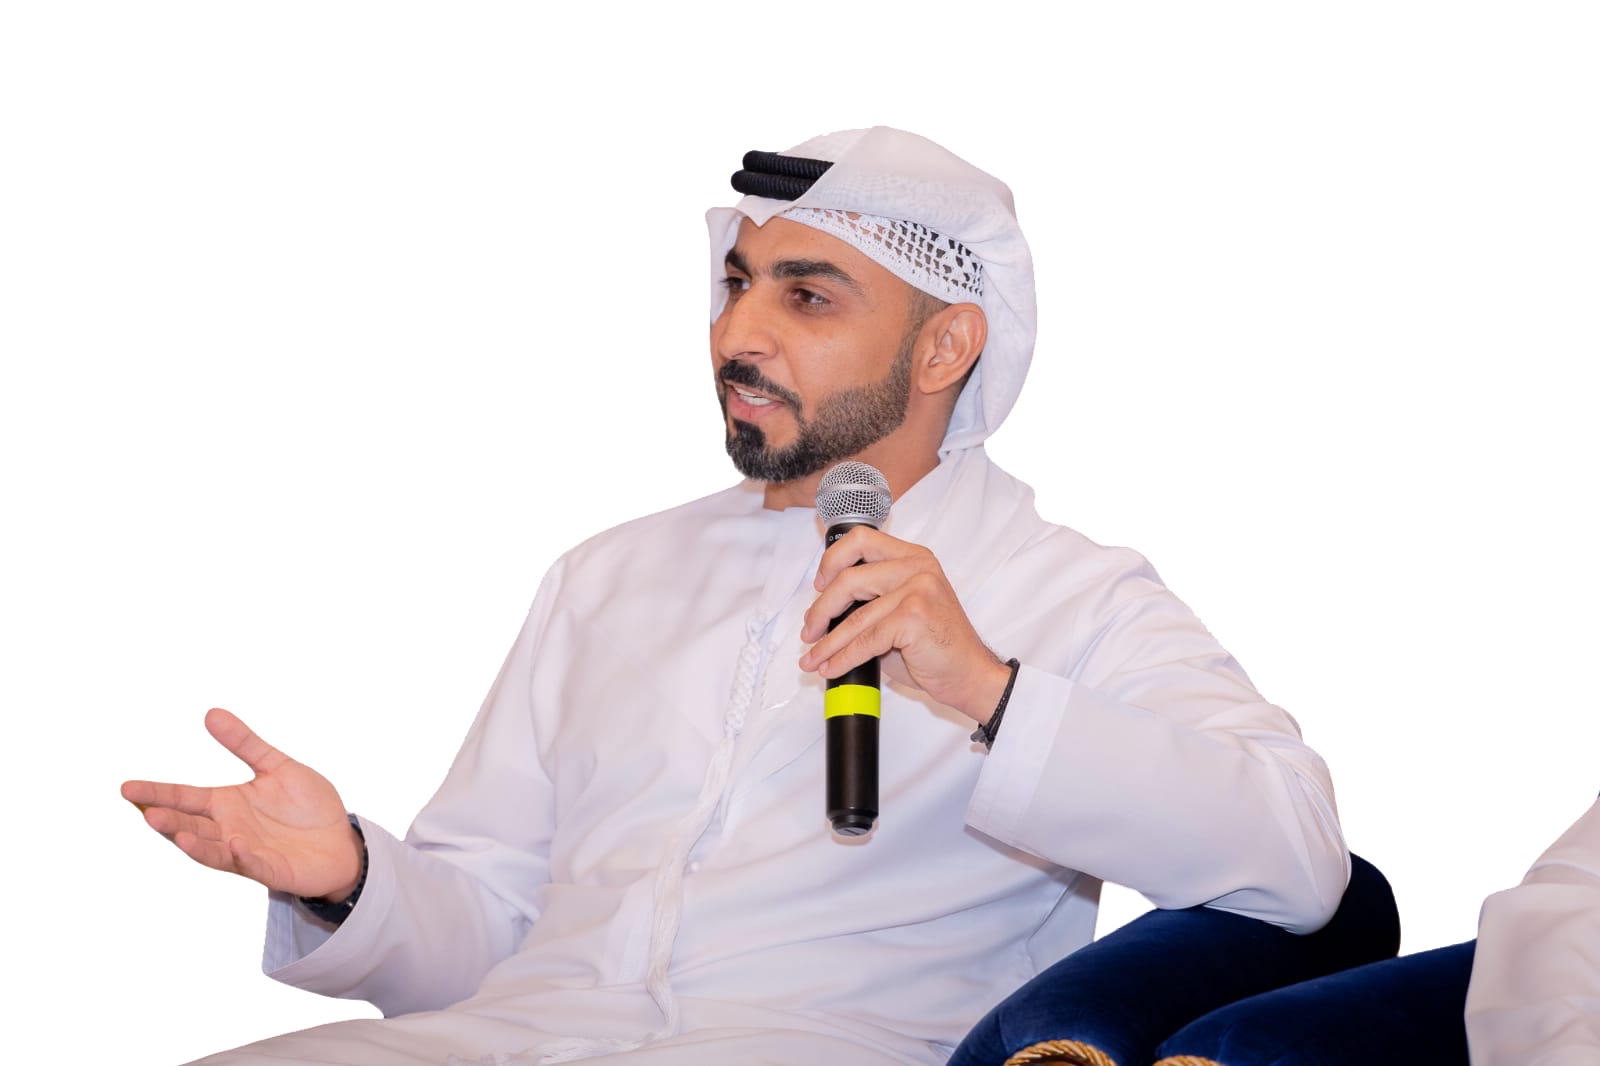
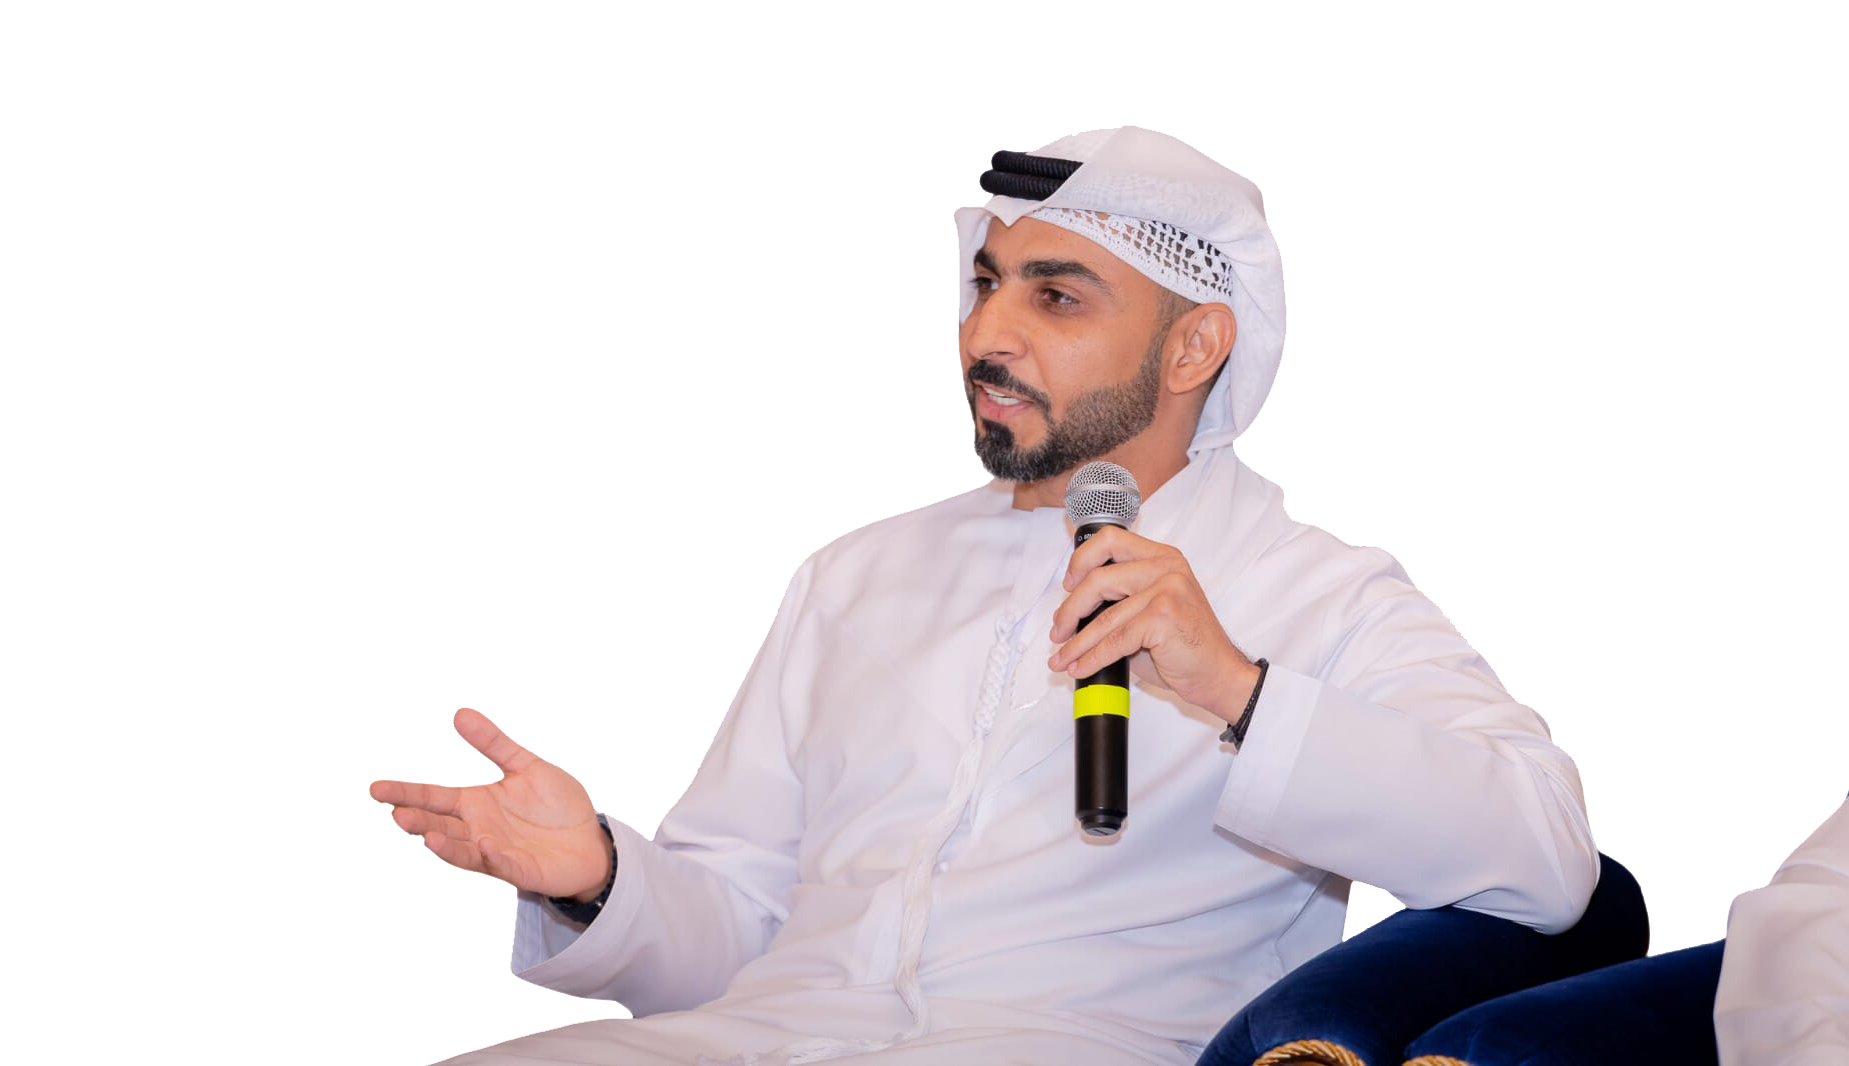
Update Home page layout by modifying image container styles and replacing the image asset

Changed region(s): [[0.0625, 0.0929, 0.9375, 1.0], [0.9375, 0.8049, 0.9688, 0.8358]]

diff --git a/src/pages/Home.jsx b/src/pages/Home.jsx
@@ -21,7 +21,7 @@ export default function Home() {
           technology with expert insights to help you make informed trading
           decisions and maximize your returns.
         </p>
-        <div className="flex gap-4 pt-4">
+        <div className="flex gap-4">
           <button className="px-8 py-4 bg-[color:var(--color-primary)] text-[color:var(--color-secondary)] font-semibold rounded-lg hover:bg-[color:var(--color-primary-dark)] transition-all duration-300 transform hover:scale-105">
             Get Started
           </button>
@@ -31,11 +31,11 @@ export default function Home() {
         </div>
       </div>
       <div className="right-section h-full  relative z-20 w-1/2">
-        <div className="container-image h-full w-full">
+        <div className="container-image relative h-full w-full">
           <img
             src={helal}
             alt="Helal"
-            className="h-full w-full  object-cover"
+            className="h-full w-full object-cover absolute "
           />
         </div>
       </div>
